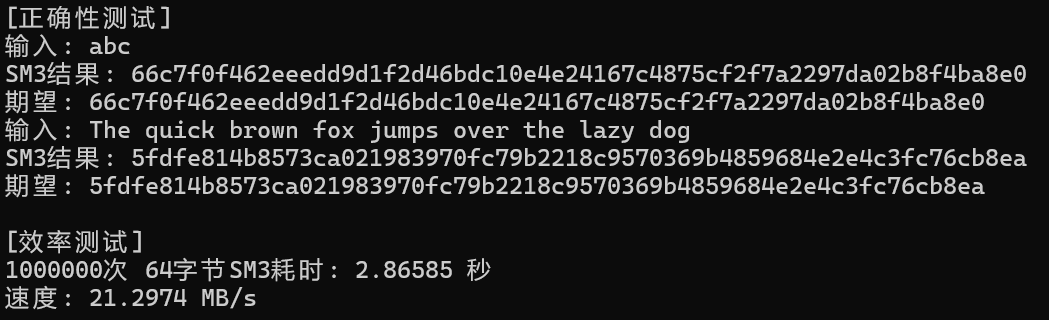
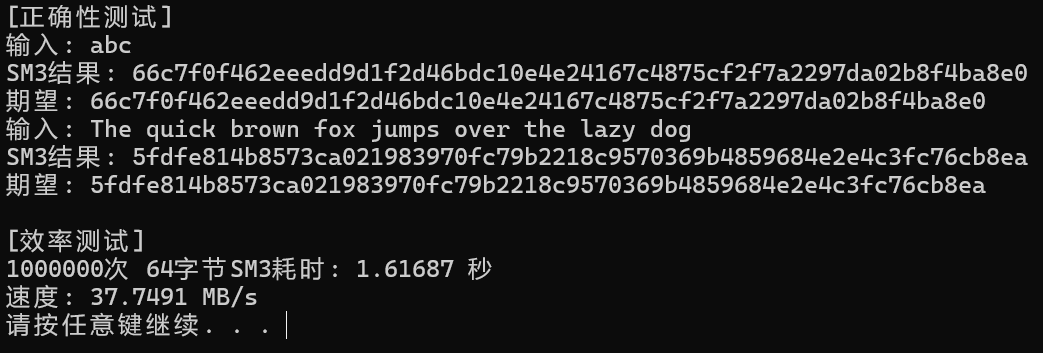
循环展开+寄存器优化

Changed region(s): [[0.0, 0.0, 1.0, 0.9688], [0.3375, 0.8125, 0.4909, 0.875]]

diff --git a/project4/unroll.cpp b/project4/unroll.cpp
@@ -1,0 +1,114 @@
+#include <iostream>
+#include <iomanip>
+#include <cstring>
+#include <chrono>
+#include <random>
+using namespace std;
+
+#define ROTL(x,n) (((x)<<(n))|((x)>>(32-(n))))
+#define P0(x) ((x)^ROTL((x),9)^ROTL((x),17))
+#define P1(x) ((x)^ROTL((x),15)^ROTL((x),23))
+#define FF0(x,y,z) ((x)^(y)^(z))
+#define FF1(x,y,z) (((x)&(y))|((x)&(z))|((y)&(z)))
+#define GG0(x,y,z) ((x)^(y)^(z))
+#define GG1(x,y,z) (((x)&(y))|((~(x))&(z)))
+
+const uint32_t IV[8] = {
+    0x7380166F,0x4914B2B9,0x172442D7,0xDA8A0600,
+    0xA96F30BC,0x163138AA,0xE38DEE4D,0xB0FB0E4E
+};
+
+const uint32_t T[64] = {
+    0x79cc4519,0x79cc4519,0x79cc4519,0x79cc4519, 0x79cc4519,0x79cc4519,0x79cc4519,0x79cc4519,
+    0x79cc4519,0x79cc4519,0x79cc4519,0x79cc4519, 0x79cc4519,0x79cc4519,0x79cc4519,0x79cc4519,
+    0x7a879d8a,0x7a879d8a,0x7a879d8a,0x7a879d8a, 0x7a879d8a,0x7a879d8a,0x7a879d8a,0x7a879d8a,
+    0x7a879d8a,0x7a879d8a,0x7a879d8a,0x7a879d8a, 0x7a879d8a,0x7a879d8a,0x7a879d8a,0x7a879d8a,
+    0x7a879d8a,0x7a879d8a,0x7a879d8a,0x7a879d8a, 0x7a879d8a,0x7a879d8a,0x7a879d8a,0x7a879d8a,
+    0x7a879d8a,0x7a879d8a,0x7a879d8a,0x7a879d8a, 0x7a879d8a,0x7a879d8a,0x7a879d8a,0x7a879d8a,
+    0x7a879d8a,0x7a879d8a,0x7a879d8a,0x7a879d8a, 0x7a879d8a,0x7a879d8a,0x7a879d8a,0x7a879d8a,
+    0x7a879d8a,0x7a879d8a,0x7a879d8a,0x7a879d8a, 0x7a879d8a,0x7a879d8a,0x7a879d8a,0x7a879d8a
+};
+
+inline uint32_t load32(const uint8_t* p) {
+    return (p[0] << 24) | (p[1] << 16) | (p[2] << 8) | p[3];
+}
+
+inline void store32(uint8_t* p, uint32_t x) {
+    p[0] = (x >> 24) & 0xff; p[1] = (x >> 16) & 0xff; p[2] = (x >> 8) & 0xff; p[3] = x & 0xff;
+}
+
+void CF(const uint8_t* block, uint32_t V[8]) {
+    uint32_t A = V[0], B = V[1], C = V[2], D = V[3];
+    uint32_t E = V[4], F = V[5], G = V[6], H = V[7];
+
+    uint32_t W[68], W1[64];
+    for (int i = 0; i < 16; i++) W[i] = load32(block + 4 * i);
+    for (int i = 16; i < 68; i++)
+        W[i] = P1(W[i - 16] ^ W[i - 9] ^ ROTL(W[i - 3], 15)) ^ ROTL(W[i - 13], 7) ^ W[i - 6];
+    for (int i = 0; i < 64; i++) W1[i] = W[i] ^ W[i + 4];
+
+#define ROUND(i) { \
+    uint32_t SS1=ROTL((ROTL(A,12)+E+ROTL(T[i],i))&0xffffffff,7); \
+    uint32_t SS2=SS1^ROTL(A,12); \
+    uint32_t TT1=(FF0(A,B,C)*(i<16)+FF1(A,B,C)*(i>=16)+D+SS2+W1[i])&0xffffffff; \
+    uint32_t TT2=(GG0(E,F,G)*(i<16)+GG1(E,F,G)*(i>=16)+H+SS1+W[i])&0xffffffff; \
+    D=C; C=ROTL(B,9); B=A; A=TT1; \
+    H=G; G=ROTL(F,19); F=E; E=P0(TT2); \
+}
+
+#define ROUNDS4(i) ROUND(i); ROUND(i+1); ROUND(i+2); ROUND(i+3);
+
+    ROUNDS4(0); ROUNDS4(4); ROUNDS4(8); ROUNDS4(12);
+    ROUNDS4(16); ROUNDS4(20); ROUNDS4(24); ROUNDS4(28);
+    ROUNDS4(32); ROUNDS4(36); ROUNDS4(40); ROUNDS4(44);
+    ROUNDS4(48); ROUNDS4(52); ROUNDS4(56); ROUNDS4(60);
+
+#undef ROUND
+#undef ROUNDS4
+
+    V[0] ^= A; V[1] ^= B; V[2] ^= C; V[3] ^= D;
+    V[4] ^= E; V[5] ^= F; V[6] ^= G; V[7] ^= H;
+}
+
+void sm3(const uint8_t* msg, size_t len, uint8_t out[32]) {
+    uint64_t bitlen = len * 8;
+    size_t padlen = ((len + 9 + 63) & (~63)) - len;
+    uint8_t* data = new uint8_t[len + padlen];
+    memcpy(data, msg, len);
+    data[len] = 0x80;
+    memset(data + len + 1, 0, padlen - 9);
+    for (int i = 0; i < 8; i++) data[len + padlen - 8 + i] = (bitlen >> (56 - 8 * i)) & 0xff;
+
+    uint32_t V[8]; memcpy(V, IV, sizeof(V));
+    for (size_t i = 0; i < len + padlen; i += 64) CF(data + i, V);
+    delete[] data;
+
+    for (int i = 0; i < 8; i++) store32(out + 4 * i, V[i]);
+}
+
+void print_hex(const uint8_t* d, int l) { for (int i = 0; i < l; i++) cout << hex << setw(2) << setfill('0') << (int)d[i]; cout << endl; }
+
+void correctness_test() {
+    cout << "[Correctness Test]" << endl;
+    uint8_t hash[32];
+    sm3((const uint8_t*)"abc", 3, hash);
+    cout << "abc : "; print_hex(hash, 32);
+    cout << "Expected : 66c7f0f462eeedd9d1f2d46bdc10e4e24167c4875cf2f7a2297da02b8f4ba8e0" << endl;
+}
+
+void speed_test(int loops = 1000000) {
+    uint8_t buf[64], hash[32];
+    random_device rd; for (int i = 0; i < 64; i++) buf[i] = rd();
+    auto st = chrono::high_resolution_clock::now();
+    for (int i = 0; i < loops; i++) sm3(buf, 64, hash);
+    auto ed = chrono::high_resolution_clock::now();
+    double t = chrono::duration<double>(ed - st).count();
+    cout << "[Speed Test] " << loops << " times, time: " << t << " s, speed: " << (loops * 64.0 / 1024 / 1024 / t) << " MB/s" << endl;
+}
+
+int main() {
+    correctness_test();
+    speed_test();
+    system("pause");
+    return 0;
+}
